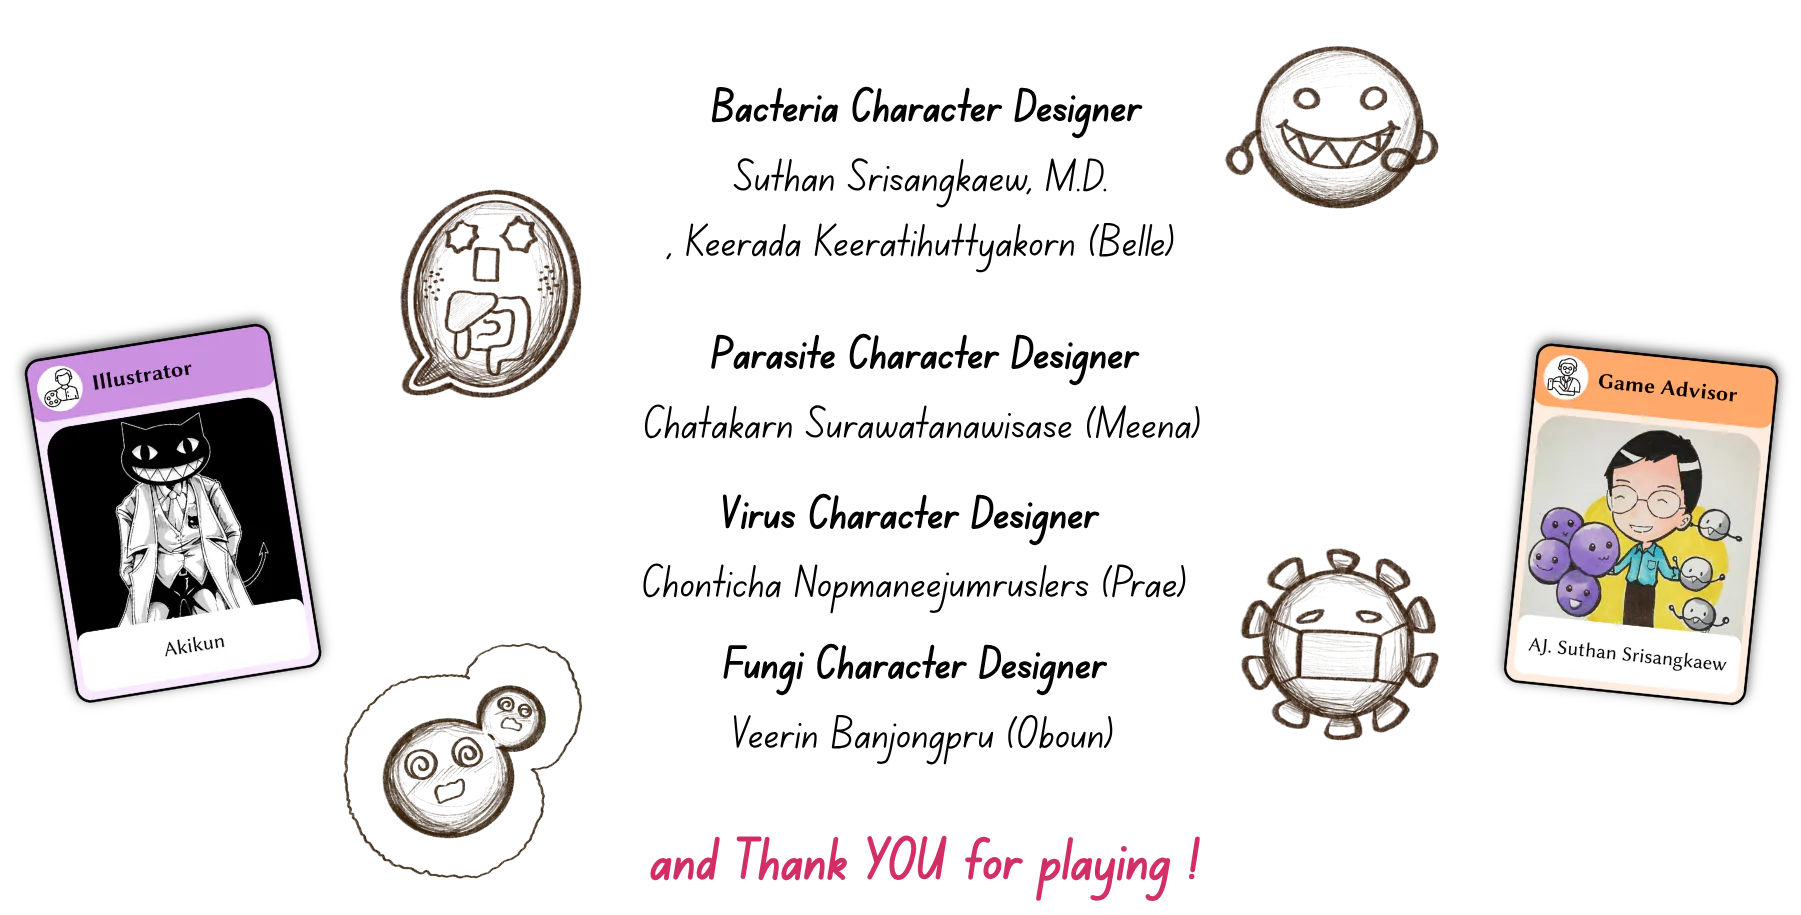
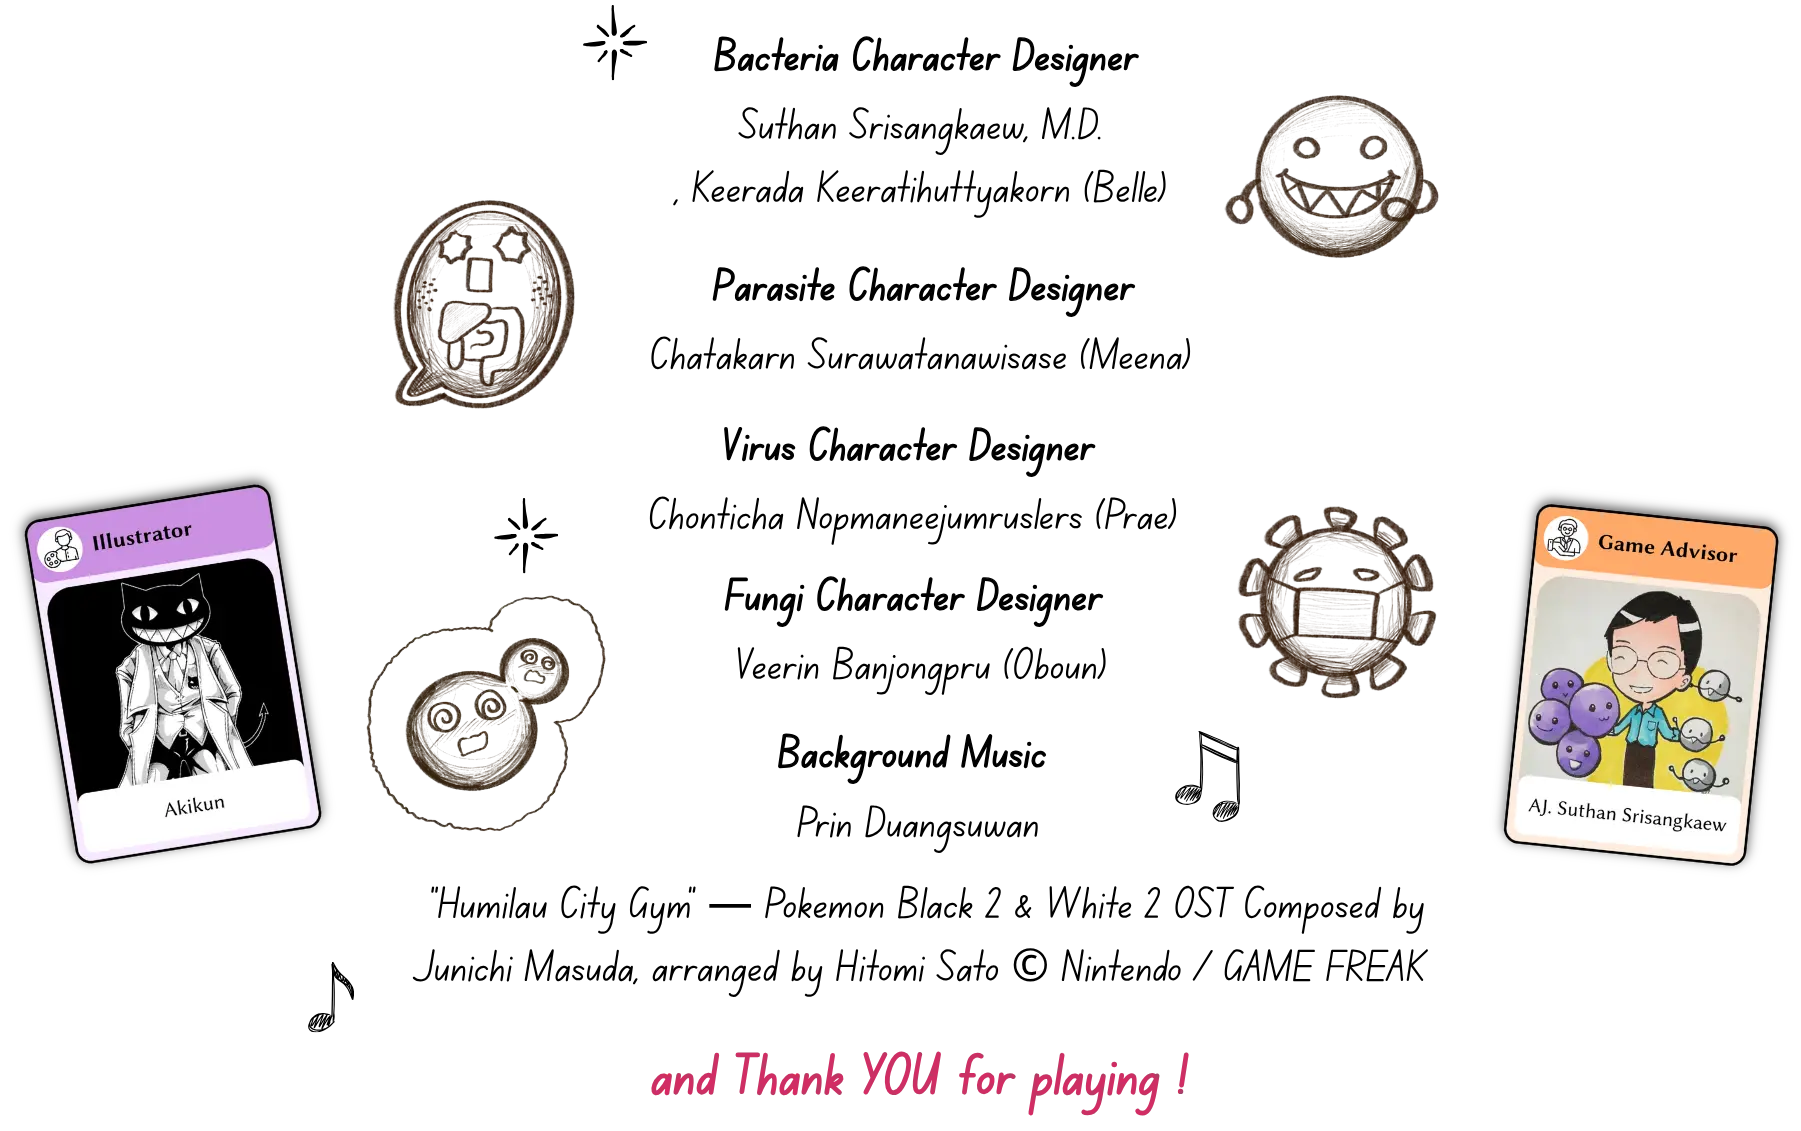
feat: improve the pathogen book skeleton loading repsonsive

diff --git a/src/components/pathogen-book/PathogenBookLayout.tsx b/src/components/pathogen-book/PathogenBookLayout.tsx
@@ -59,6 +59,23 @@ function starSrc(rating: number): string {
   return `/assets/pathogen-book/star-${n}.webp`;
 }
 
+// Long binomial names (e.g. "Burkholderia pseudomallei") can run wider than
+// the right-page header has room for. Past 20 characters, force the break
+// after the genus (first word) instead of leaving the browser to wrap
+// wherever it fits, so the name always reads as two clean lines.
+function formatMicrobeName(name: string) {
+  if (name.length <= 20) return name;
+  const firstSpace = name.indexOf(" ");
+  if (firstSpace === -1) return name;
+  return (
+    <>
+      {name.slice(0, firstSpace)}
+      <br />
+      {name.slice(firstSpace + 1)}
+    </>
+  );
+}
+
 function GramBadge({ gramType }: { gramType: GramType }) {
   if (gramType === "POSITIVE")
     return (
@@ -198,7 +215,7 @@ function ClueSectionSkeleton() {
   return (
     <>
       <style>{SHIMMER_CSS}</style>
-      <div className="grid grid-cols-3 gap-2" style={{ zoom: 0.78, width: "75%" }}>
+      <div className="pb-clue-grid grid grid-cols-4 gap-2" style={{ zoom: 0.68, width: "85%" }}>
         {Array.from({ length: 8 }).map((_, i) => (
           <ShimmerCard key={i} base="rgba(160,130,90,0.22)" sheen="rgba(185,155,110,0.32)" />
         ))}
@@ -415,7 +432,7 @@ export function PathogenBookLayout({ gameMode, backgroundSrc }: PathogenBookLayo
                   className="pb-detail-name font-semibold italic leading-snug text-[#2a1208]"
                   style={{ fontSize: "clamp(1rem, 2.4vw, 1.5rem)" }}
                 >
-                  {selectedMicrobe.name}
+                  {formatMicrobeName(selectedMicrobe.name)}
                 </h2>
                 <p
                   className="pb-detail-rating-label uppercase tracking-wider text-[#7a5a30]"

diff --git a/src/app/globals.css b/src/app/globals.css
@@ -718,8 +718,11 @@
    the letterboxing, so the existing percentage-based positions land on the
    book graphic correctly again with no extra offsets needed — every element
    stays at its normal/default place. iPad-only; phone and desktop/mouse
-   keep the original background sizing. ─────────────────────────────────── */
-@media (orientation: landscape) and (pointer: coarse) and (min-width: 961px) and (max-width: 1366px) {
+   keep the original background sizing. Upper bound is 1400px, not 1366px,
+   because browsers can report the 1366-wide iPad Pro viewport as a
+   fraction of a px over 1366 — a strict max-width: 1366px boundary missed
+   it and left that device letterboxed. ─────────────────────────────────── */
+@media (orientation: landscape) and (pointer: coarse) and (min-width: 961px) and (max-width: 1400px) {
   .pb-page-root {
     background-size: 100% 100%, cover !important;
   }
